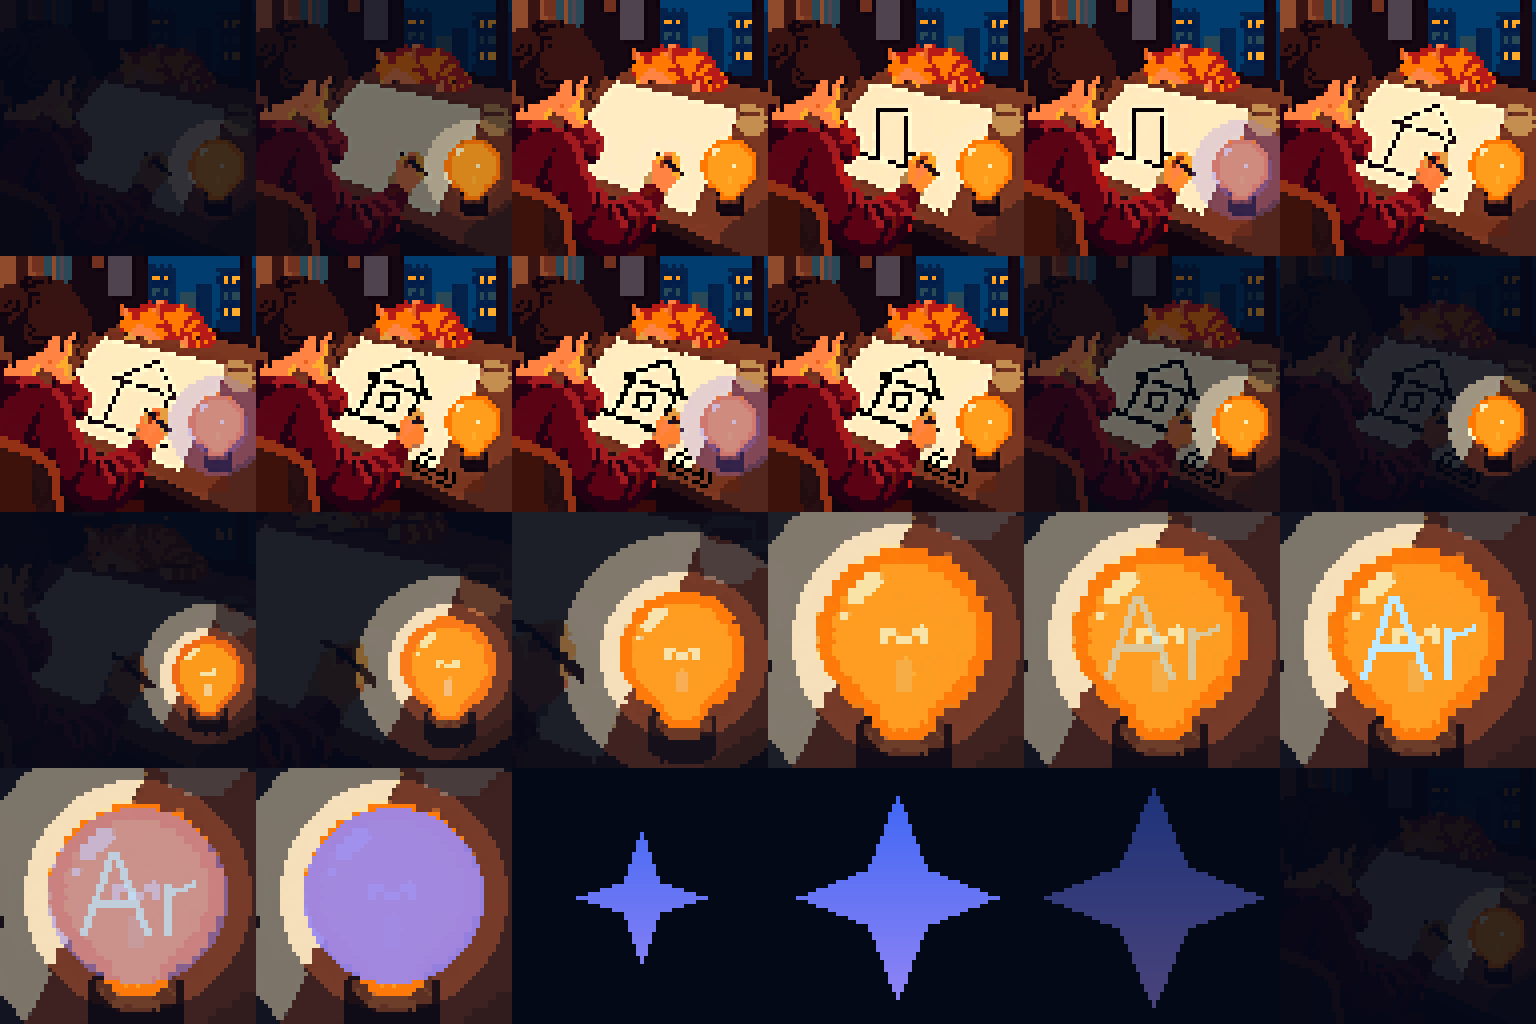
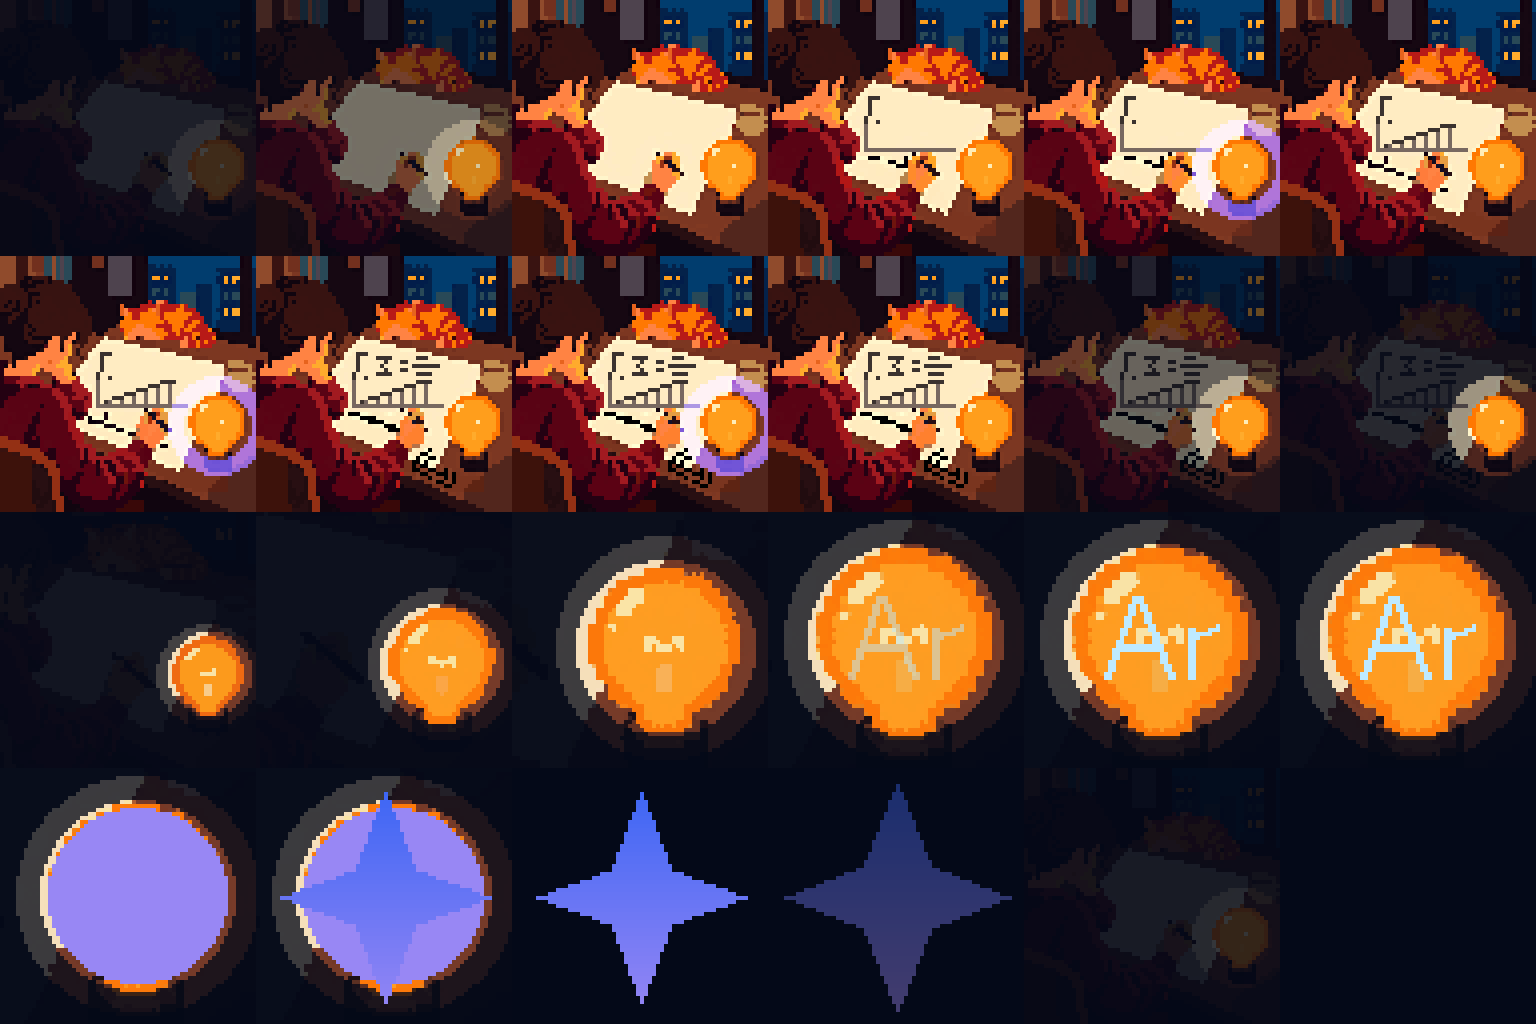
Rework The Light on the Page prototype around a math sketch

diff --git a/ideas/the-light-on-the-page/build_light_gif.py b/ideas/the-light-on-the-page/build_light_gif.py
@@ -9,7 +9,7 @@ from pathlib import Path
 import subprocess
 import sys
 
-from PIL import Image, ImageDraw, ImageFilter, ImageSequence
+from PIL import Image, ImageChops, ImageDraw, ImageFilter, ImageSequence
 
 ROOT = Path(__file__).resolve().parent
 REPO = ROOT.parents[1]
@@ -26,11 +26,19 @@ NIGHT = (4, 9, 24)
 ARGON = (190, 234, 255)
 STAR_TOP = (53, 99, 244)
 STAR_BOTTOM = (152, 135, 244)
-HELPER_VIOLET = (150, 120, 246)
+HELPER_VIOLET = (118, 92, 248)
 
 PLATE = "frame_user-grid-v7"
 DRAWING_STEPS = ("frame_step-a", "frame_step-b-v2", "frame_step-c-v2")
 SOURCE_IMAGE = "user-grid-v7.png"
+# The maths on the sheet is drawn in code and the moving hand comes from the model keyframes, which
+# only touch the paper below row 39. The model cannot hold thin linework at this size: six
+# generations turned integrals and diagrams alike into speckle. Set DRAWING_SOURCE = "model" to put
+# its own drawing back on the sheet instead.
+DRAWING_SOURCE = "code"
+HAND_ROW = 39
+PENCIL = (59, 50, 46)
+DRAFT = (120, 104, 96)
 
 BULB_CENTER = (54, 42)
 BULB_RADIUS = 7
@@ -70,11 +78,77 @@ def paper_region() -> Image.Image:
         outside = Image.new("L", (SIZE, SIZE))
         ImageDraw.Draw(outside).rectangle(corner, fill=255)
         region = Image.composite(region, Image.new("L", (SIZE, SIZE)), outside)
+    draw = ImageDraw.Draw(region)
+    if DRAWING_SOURCE == "code":
+        # Keep the upper sheet clear so the drafted maths is not overwritten by the model's lines.
+        draw.rectangle((0, 0, SIZE, HAND_ROW - 1), fill=0)
     x, y = BULB_CENTER
-    ImageDraw.Draw(region).ellipse(
-        (x - GLOW_RADIUS, y - GLOW_RADIUS, x + GLOW_RADIUS, y + GLOW_RADIUS), fill=0
-    )
+    draw.ellipse((x - GLOW_RADIUS, y - GLOW_RADIUS, x + GLOW_RADIUS, y + GLOW_RADIUS), fill=0)
     return region
+
+
+def maths_note() -> list[list[tuple]]:
+    """Serious mathematics on the sheet, in the order she writes it.
+
+    An integral with its curve and the shaded area underneath, then a summation and a quotient.
+    Glyphs at this scale have to be plotted pixel by pixel; nothing smaller than this reads.
+    """
+    integral = [(2, 0), (1, 0), (1, 1), (1, 2), (1, 3), (1, 4), (0, 5), (0, 6)]
+    sigma = [
+        (0, 0), (1, 0), (2, 0), (3, 0),
+        (2, 1), (1, 2), (2, 3),
+        (0, 4), (1, 4), (2, 4), (3, 4),
+    ]
+    curve = [
+        (26, 36), (27, 36), (28, 35), (29, 35), (30, 35), (31, 34), (32, 34), (33, 34),
+        (34, 33), (35, 33), (36, 33), (37, 32), (38, 32), (39, 32), (40, 31), (41, 31),
+        (42, 31), (43, 31),
+    ]
+    return [
+        [
+            ("line", 24, 31, 24, 37, DRAFT),
+            ("line", 24, 37, 46, 37, DRAFT),
+            ("glyph", integral, 24, 24, PENCIL),
+            ("ticks", [(27, 24), (27, 30)], PENCIL),
+        ],
+        [
+            ("ticks", curve, PENCIL),
+            ("hatch", curve, DRAFT),
+        ],
+        [
+            ("glyph", sigma, 30, 25, PENCIL),
+            ("ticks", [(36, 26), (37, 26), (36, 28), (37, 28)], PENCIL),
+            ("line", 39, 27, 45, 27, PENCIL),
+            ("ticks", [(40, 25), (41, 25), (42, 25), (40, 29), (41, 29), (42, 29), (43, 29)],
+             PENCIL),
+        ],
+    ]
+
+
+def draw_note(plate: Image.Image, stages: list[list[tuple]]) -> Image.Image:
+    image = plate.copy()
+    draw = ImageDraw.Draw(image)
+    for stage in stages:
+        for kind, *rest in stage:
+            if kind == "ticks":
+                points, color = rest
+                draw.point(points, fill=color)
+                continue
+            if kind == "glyph":
+                points, origin_x, origin_y, color = rest
+                draw.point([(origin_x + x, origin_y + y) for x, y in points], fill=color)
+                continue
+            if kind == "hatch":
+                points, color = rest
+                for x, y in points[1::3]:
+                    draw.line((x, y + 1, x, 36), fill=color)
+                continue
+            *coords, color = rest
+            if kind == "box":
+                draw.rectangle(coords, outline=color)
+            else:
+                draw.line(coords, fill=color)
+    return image
 
 
 def lamp_mask(glow: float = 1.0) -> Image.Image:
@@ -96,10 +170,20 @@ def dim(image: Image.Image, level: float, glow: float = 1.0) -> Image.Image:
 
 
 def helping(image: Image.Image, amount: float) -> Image.Image:
-    """Flick the bulb violet, so the lamp reads as helping while she draws."""
+    """Flick violet light around the bulb, so the lamp reads as helping while she draws.
+
+    Only the halo takes the tint. Blending the glass itself turns the amber core to mauve and the
+    lamp stops looking lit at all, which is the opposite of the intended beat.
+    """
+    halo = Image.new("L", (SIZE, SIZE))
+    draw = ImageDraw.Draw(halo)
+    x, y = BULB_CENTER
+    draw.ellipse((x - GLOW_RADIUS, y - GLOW_RADIUS, x + GLOW_RADIUS, y + GLOW_RADIUS),
+                 fill=round(255 * amount))
+    draw.ellipse((x - BULB_RADIUS - 1, y - BULB_RADIUS - 1, x + BULB_RADIUS + 1,
+                  y + BULB_RADIUS + 1), fill=0)
     violet = Image.new("RGB", (SIZE, SIZE), HELPER_VIOLET)
-    tinted = Image.blend(image, violet, amount)
-    return Image.composite(tinted, image, lamp_mask())
+    return Image.composite(ImageChops.screen(image, violet), image, halo)
 
 
 def zoom(crop_side: int) -> tuple[Image.Image, tuple[float, float], float]:
@@ -131,7 +215,8 @@ def shade_around(image: Image.Image, center: tuple[float, float], radius: float,
     mask = Image.new("L", (SIZE, SIZE))
     draw = ImageDraw.Draw(mask)
     x, y = center
-    draw.ellipse((x - radius * 1.5, y - radius * 1.5, x + radius * 1.5, y + radius * 1.5), fill=120)
+    draw.ellipse((x - radius * 1.25, y - radius * 1.25, x + radius * 1.25, y + radius * 1.25),
+                 fill=55)
     draw.ellipse((x - radius, y - radius, x + radius, y + radius), fill=255)
     night = Image.new("RGB", (SIZE, SIZE), NIGHT)
     return Image.composite(image, Image.blend(night, image, level), mask)
@@ -169,9 +254,13 @@ def tint_glass(image: Image.Image, center: tuple[float, float], radius: float,
     return Image.composite(Image.blend(image, violet, amount), image, mask)
 
 
-def star_frame(radius: int, brightness: float) -> Image.Image:
-    """One four-point star, tapered, on a dark field."""
-    image = Image.new("RGB", (SIZE, SIZE), NIGHT)
+def star_field() -> Image.Image:
+    return Image.new("RGB", (SIZE, SIZE), NIGHT)
+
+
+def add_star(image: Image.Image, radius: int, brightness: float) -> Image.Image:
+    """Lay one four-point star, tapered, over whatever is already in the frame."""
+    image = image.copy()
     gradient = Image.new("RGB", (SIZE, SIZE))
     pixels = gradient.load()
     for y in range(SIZE):
@@ -200,29 +289,37 @@ def star_frame(radius: int, brightness: float) -> Image.Image:
 def build() -> list[Image.Image]:
     plate = frame(PLATE)
     region = paper_region()
-    steps = [Image.composite(frame(name), plate, region) for name in DRAWING_STEPS]
+    hands = [Image.composite(frame(name), plate, region) for name in DRAWING_STEPS]
+    if DRAWING_SOURCE == "model":
+        steps = hands
+    else:
+        stages = maths_note()
+        steps = [draw_note(hand, stages[: count + 1]) for count, hand in enumerate(hands)]
     finished = steps[-1]
 
     frames = [dim(plate, 0.10, glow=0.15), dim(plate, 0.45, glow=0.70), plate]
     for step in steps:
         frames.append(step)
-        frames.append(helping(step, 0.45))
+        frames.append(helping(step, 0.85))
     frames.append(finished)
     frames.append(dim(finished, 0.40))
     frames.append(dim(finished, 0.14))
 
-    for crop_side in (820, 620, 460, 330):
+    for crop_side, level in ((820, 0.06), (560, 0.04), (380, 0.03)):
         image, glass, radius = zoom(crop_side)
-        frames.append(shade_around(image, glass, radius * 1.3, 0.10))
+        frames.append(shade_around(image, glass, radius * 1.15, level))
 
     image, glass, radius = zoom(330)
-    lit = shade_around(image, glass, radius * 1.3, 0.06)
-    frames.append(argon_letters(lit, glass, radius, fade=0.55))
+    lit = shade_around(image, glass, radius * 1.1, 0.02)
+    frames.append(argon_letters(lit, glass, radius, fade=0.5))
     frames.append(argon_letters(lit, glass, radius))
-    frames.append(argon_letters(tint_glass(lit, glass, radius, 0.5), glass, radius, fade=0.7))
-    frames.append(tint_glass(lit, glass, radius, 0.9))
-
-    frames += [star_frame(16, 1.0), star_frame(25, 1.0), star_frame(27, 0.5)]
+    frames.append(argon_letters(lit, glass, radius))
+    violet = tint_glass(lit, glass, radius, 1.0)
+    frames.append(violet)
+    # The star breaks out of the glass that just held the argon, rather than cutting to a new shape.
+    frames.append(add_star(violet, 26, 1.0))
+    frames.append(add_star(star_field(), 26, 1.0))
+    frames.append(add_star(star_field(), 28, 0.45))
     frames.append(dim(plate, 0.08, glow=0.12))
     return frames
 

diff --git a/ideas/the-light-on-the-page/README.md b/ideas/the-light-on-the-page/README.md
@@ -82,49 +82,57 @@ export for comparison. The techniques behind this are recorded in
 ## Animation prototype
 
 Authorized after the user approved `user-grid-v7.png`. Built by `build_light_gif.py` into
-`animation_frames/`, `review/prototype.gif` (64×64, 23 frames, 300 ms each, 6.9 s, 30 KB) and
+`animation_frames/`, `review/prototype.gif` (64×64, 23 frames, 300 ms each, 6.9 s, 42 KB) and
 `review/prototype-8x.gif`, with `review/prototype-contact-sheet.png` showing every frame at once.
 
 ### The loop
 
 1. The room is dark; the lamp comes up over a blank sheet.
-2. She draws an architect's note on the paper, stroke by stroke: ground line and height dimension
-   first, then the elevation, its roof and bay divisions, the floor lines and ground hatch, a small
-   plan view, and finally the dimension end ticks and a scale bar.
+2. She works through a piece of mathematics. Her hand moves across the sheet and a protractor
+   appears beside it, while the page fills in three passes: an integral sign with its axes, then
+   the curve and the shaded area underneath it, then a summation, an equals sign and a quotient.
+   Between her strokes the lamp flares violet, so it reads as helping her.
 3. The room sinks into shadow while the lamp keeps burning.
-4. The lamp steps forward and fills the frame, so what is inside the glass can be read: a pale blue
-   `Ar` appears in the envelope, the argon that protects the filament.
-5. The glass turns blue-violet and resolves into the four-point Gemini star, which fades as the warm
-   lamp switches on again over a fresh sheet.
+4. The camera pushes in on the lamp itself, cropped from the full-resolution source, until the
+   glass fills the frame. A pale blue `Ar` appears inside it: the argon that protects the filament.
+5. The glass turns blue-violet and the four-point Gemini star breaks out of it, then fades as the
+   warm lamp switches on again over a fresh sheet.
 
 ### What the model drew and what code drew
 
-Two keyframes were generated for the drawing pose - `key-draw-mid.png` and `key-draw-done.png` from
-their prompt files - then `key-draw-mid-v2.png` and `key-draw-done-v2.png` after the user asked for
-a real engineering drawing instead of abstract shapes. All four failed the same way: the model
-renders thin technical linework as scattered speckle once the image comes down to 64×64. They are
-kept as a record of that limit.
+The room is the model's. So is the moving hand and the protractor, from `step-a.png`,
+`step-b-v2.png` and `step-c-v2.png` - pose changes only a new generation can give. Code composites
+them: only the sheet region of each keyframe below row 39, plus the strip of desk where the
+protractor lands and never the bulb or its halo, is pasted onto the approved plate. Without that
+mask the hair, cat, window and mug drift between generations and the loop jitters.
 
-Everything moving is therefore composited in code on the approved plate, which is also what keeps
-the hair, cat, window and lamp from jittering between frames:
+The work on the paper is drawn in code, above row 39, after six generations established that the
+model cannot hold thin linework at this size. `prompt-key-draw-mid` and `prompt-key-draw-done`
+asked for a diagram and returned scattered speckle; their `-v2` pair asked for an architecture
+diagram and returned the same. `step-a` asked for two bold shapes with every stroke as wide as one
+display pixel and came back clean, but `step-b-v2` with three and `step-c-v2` with four came back
+crooked, with the protractor as a spiral. The model holds about two bold shapes here and no more.
+`DRAWING_SOURCE = "model"` puts its own drawing back on the sheet for comparison.
 
-- the lamp turning on and the fade to shadow are blends toward night blue, with the bulb and its
-  halo held at their own brightness;
-- the architect's note is drawn with straight one-pixel strokes in two weights, pencil grey for the
-  building and a lighter draft grey for the construction lines, dimensions and hatch. A first
-  attempt at a box-and-arrow architecture diagram was rejected as abstract, and a second attempt
-  drawn as a towered castle was rejected as childish; the present elevation with its height
-  dimension, bay grid, hatched ground, plan view and scale bar reads as drafting;
-- the argon reveal enlarges the bulb to fill the frame before naming the gas. Inside the
-  13-pixel bulb of the still frame no lettering is legible, which is why the earlier small `Ar`
-  could not be read. The large `Ar` is drawn by hand and is the only lettering in the loop;
-- the Gemini star is a tapered polygon filled with a blue-to-violet gradient, growing out of the
-  glass that just held the `Ar`.
+The user rejected a box-and-arrow architecture diagram as abstract, a towered castle as childish,
+and the model's own crooked house, and asked for serious mathematics instead. The glyphs are
+plotted pixel by pixel because nothing smaller reads: the integral is eight pixels, the summation a
+four-by-five block, and the area under the curve is hatched in the lighter draft grey so it stays
+separate from the curve itself.
+
+The rest is code: the lamp turning on and the fade to shadow are blends toward night blue with the
+bulb held at its own brightness; the violet flare screens a bright violet over the halo ring only,
+because tinting the glass itself turns the amber core to mauve and the lamp stops looking lit; the
+zoom crops the 1024-pixel source around the bulb through the same flatten-and-dominant-color
+pipeline as the stills, so it is the same lamp growing rather than a cut to a redrawn one; the `Ar`
+is placed by hand and scaled to the glass; and the star is a tapered polygon under a blue-to-violet
+gradient, laid over the violet glass first so it emerges from it.
 
 ### Prototype review
 
 Watch the loop at both sizes. It succeeds if the lamp switching on reads as a reveal, the sheet
-reads as an architect's working note while it is drawn, the `Ar` is unmistakable inside the glass,
-and the star's four points stay sharp at native size. Known rough edge: the dimmed frames
-desaturate the warm room toward grey-blue, which is a linear blend rather than a lighting pass.
-Animation refinements and any final export still need separate approval.
+reads as real mathematics while it is written, the violet flare reads as the lamp helping, the
+push-in stays on the same lamp, the `Ar` is unmistakable inside the glass, and the star's four
+points stay sharp at native size. Known rough edge: the dimmed frames desaturate the warm room
+toward grey-blue, which is a linear blend rather than a lighting pass. Animation refinements and
+any final export still need separate approval.
